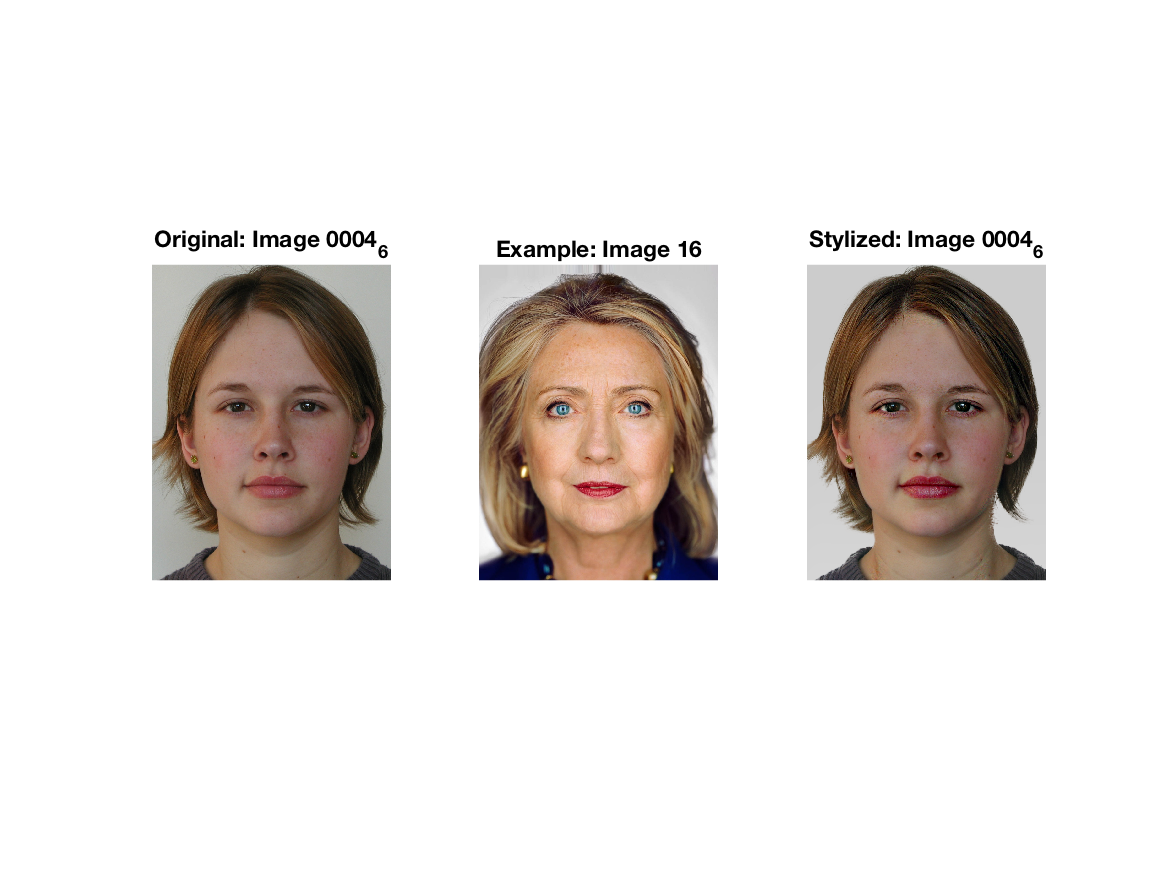
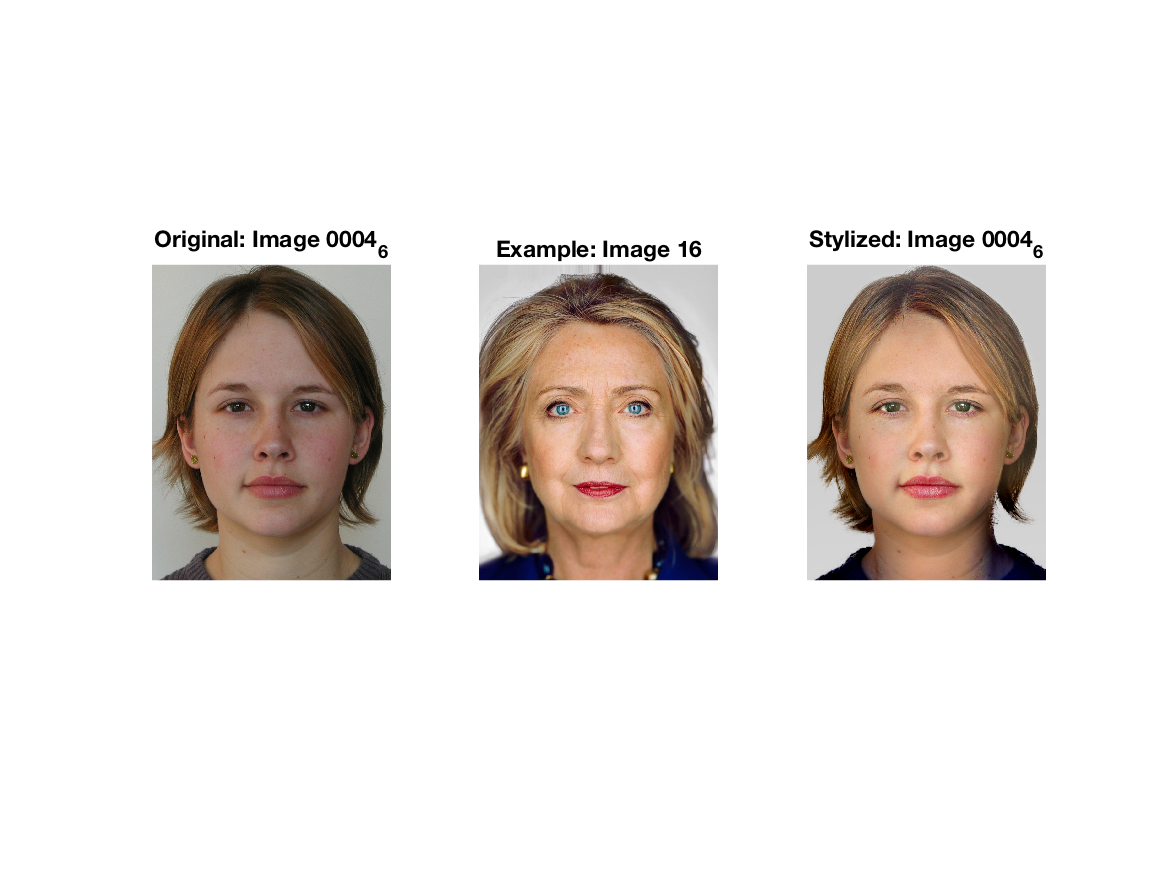
updated styleTransfer with pyramids_example

Changed region(s): [[0.6787, 0.2777, 0.8946, 0.6789]]

diff --git a/HW1/code/pyramids/transferStyle.m b/HW1/code/pyramids/transferStyle.m
@@ -28,7 +28,7 @@ for c = 1:channels
     pyramid_input   = laplacianPyramids(input(:,:,c), nLevel);
     pyramid_example = laplacianPyramids(example(:,:,c), nLevel);
 
-    pyramid_output = pyramid_input;
+    pyramid_output = pyramid_example;
 
     for i = 1 : nLevel-1
         layer_example = pyramid_example{i};
